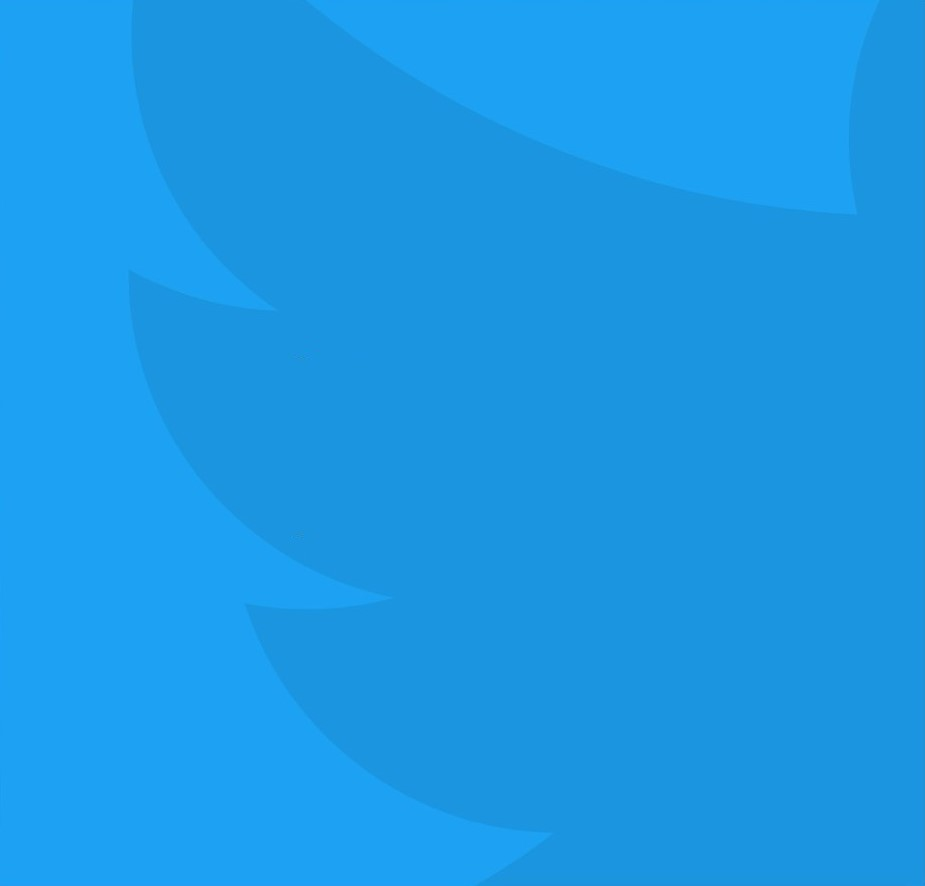
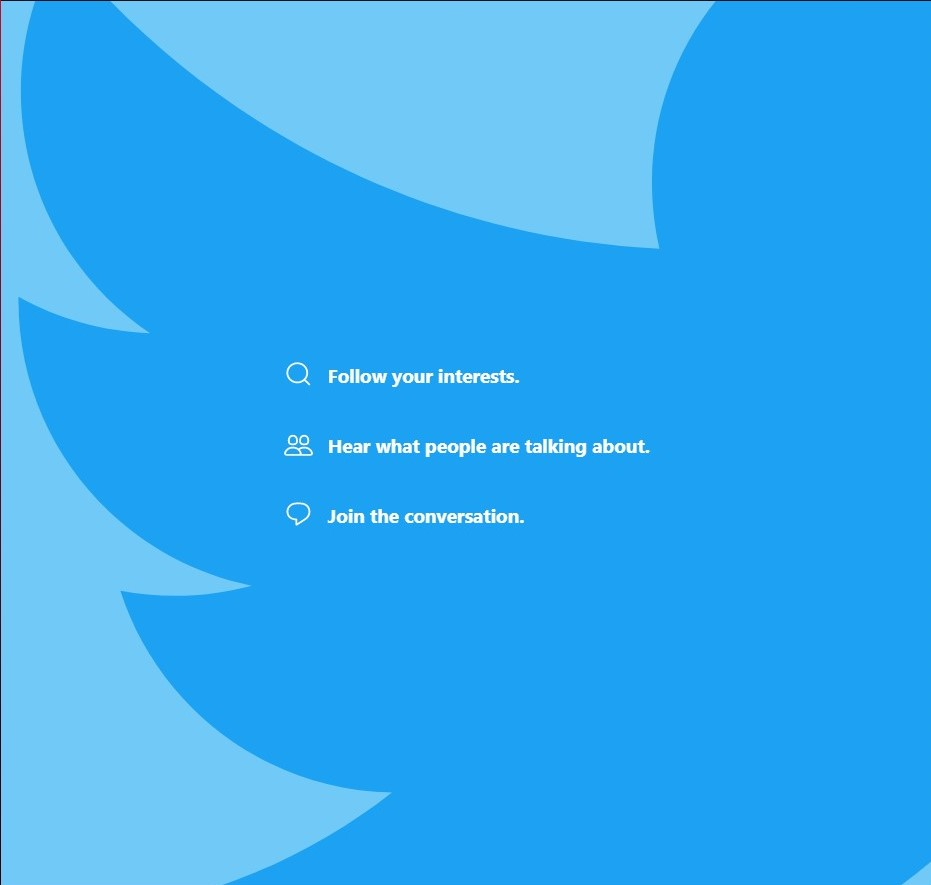
left img

diff --git a/FSW-120/Week7/twitter_spa/src/jsPerFunction/Login.js b/FSW-120/Week7/twitter_spa/src/jsPerFunction/Login.js
@@ -8,12 +8,44 @@ class Home extends Component {
       <div id="wrapper">
         <section id="left">
           <div className="left_center_div">
-            <svg></svg>
-            <h2>Follow your interests.</h2>
-            <svg></svg>
-            <h2>Hear what people are talking about.</h2>
-            <svg></svg>
-            <h2>Join the conversation.</h2>
+            <p>
+              {" "}
+              <svg
+                id="looking_glass"
+                viewBox="0 0 24 24"
+                class="r-jwli3a r-4qtqp9 r-yyyyoo r-1q142lx r-1blvdjr r-1xvli5t r-dnmrzs r-bnwqim r-1plcrui r-lrvibr"
+              >
+                <g>
+                  <path d="M21.53 20.47l-3.66-3.66C19.195 15.24 20 13.214 20 11c0-4.97-4.03-9-9-9s-9 4.03-9 9 4.03 9 9 9c2.215 0 4.24-.804 5.808-2.13l3.66 3.66c.147.146.34.22.53.22s.385-.073.53-.22c.295-.293.295-.767.002-1.06zM3.5 11c0-4.135 3.365-7.5 7.5-7.5s7.5 3.365 7.5 7.5-3.365 7.5-7.5 7.5-7.5-3.365-7.5-7.5z"></path>
+                </g>
+              </svg>
+              <h2>Follow your interests.</h2>
+            </p>
+            <p>
+              {" "}
+              <svg
+                id="second_svg"
+                viewBox="0 0 24 24"
+                class="r-jwli3a r-4qtqp9 r-yyyyoo r-1q142lx r-1blvdjr r-1xvli5t r-dnmrzs r-bnwqim r-1plcrui r-lrvibr"
+              >
+                <g>
+                  <path d="M16.695 13.037c1.185 0 2.51-.132 3.368-1.11.72-.823.952-2.08.715-3.847-.333-2.478-1.86-3.956-4.083-3.956-2.225 0-3.75 1.48-4.084 3.956-.236 1.766-.002 3.023.717 3.846.858.98 2.184 1.11 3.368 1.11zM14.098 8.28c.134-.992.648-2.656 2.598-2.656 1.948 0 2.463 1.664 2.597 2.655.174 1.293.054 2.187-.358 2.657-.367.42-1.036.6-2.238.6s-1.87-.18-2.24-.6c-.412-.47-.533-1.364-.36-2.658zm9.788 11.222c-.763-3.066-3.72-5.208-7.19-5.208-1.765 0-3.392.558-4.67 1.505-1.278-.948-2.905-1.506-4.67-1.506-3.47 0-6.428 2.142-7.19 5.208-.156.625-.025 1.265.356 1.754.37.473.94.744 1.567.744h19.87c.628 0 1.2-.27 1.57-.745.382-.49.512-1.13.356-1.753zm-1.537.83c-.09.11-.22.168-.39.168h-7.413c.078-.32.084-.66 0-.998-.25-1-.75-1.888-1.41-2.65.993-.665 2.223-1.058 3.558-1.058 2.78 0 5.14 1.674 5.735 4.07.044.174.014.344-.08.467zM7.354 20.5H2.09c-.17 0-.3-.057-.388-.168-.096-.123-.126-.294-.083-.47.596-2.395 2.954-4.068 5.735-4.068 2.78 0 5.14 1.674 5.735 4.07.043.174.014.344-.082.467-.088.113-.22.17-.388.17H7.355zm.001-7.463c1.185 0 2.51-.132 3.367-1.11.72-.823.953-2.08.716-3.847-.333-2.478-1.86-3.956-4.083-3.956-2.225 0-3.75 1.48-4.084 3.956-.236 1.766-.002 3.023.717 3.846.858.98 2.184 1.11 3.368 1.11zM4.758 8.28c.134-.992.648-2.656 2.598-2.656 1.948 0 2.463 1.664 2.597 2.655.174 1.293.053 2.187-.358 2.658-.368.42-1.037.6-2.238.6-1.202 0-1.87-.18-2.24-.6-.412-.47-.533-1.365-.36-2.66z"></path>
+                </g>
+              </svg>
+              <h2>Hear what people are talking about.</h2>
+            </p>
+            <p>
+              {" "}
+              <svg
+                viewBox="0 0 24 24"
+                class="r-jwli3a r-4qtqp9 r-yyyyoo r-1q142lx r-1blvdjr r-1xvli5t r-dnmrzs r-bnwqim r-1plcrui r-lrvibr"
+              >
+                <g>
+                  <path d="M14.046 2.242l-4.148-.01h-.002c-4.374 0-7.8 3.427-7.8 7.802 0 4.098 3.186 7.206 7.465 7.37v3.828c0 .108.044.286.12.403.142.225.384.347.632.347.138 0 .277-.038.402-.118.264-.168 6.473-4.14 8.088-5.506 1.902-1.61 3.04-3.97 3.043-6.312v-.017c-.006-4.367-3.43-7.787-7.8-7.788zm3.787 12.972c-1.134.96-4.862 3.405-6.772 4.643V16.67c0-.414-.335-.75-.75-.75h-.396c-3.66 0-6.318-2.476-6.318-5.886 0-3.534 2.768-6.302 6.3-6.302l4.147.01h.002c3.532 0 6.3 2.766 6.302 6.296-.003 1.91-.942 3.844-2.514 5.176z"></path>
+                </g>
+              </svg>
+              <h2>Join the conversation.</h2>
+            </p>
           </div>
         </section>
         <section id="right">
@@ -26,7 +58,15 @@ class Home extends Component {
             </form>
           </div>
           <div className="right_center_div">
-            <svg></svg>
+            <svg
+              id="twitter_icon"
+              viewBox="0 0 24 24"
+              class="r-k200y r-13gxpu9 r-4qtqp9 r-yyyyoo r-np7d94 r-dnmrzs r-bnwqim r-1plcrui r-lrvibr"
+            >
+              <g>
+                <path d="M23.643 4.937c-.835.37-1.732.62-2.675.733.962-.576 1.7-1.49 2.048-2.578-.9.534-1.897.922-2.958 1.13-.85-.904-2.06-1.47-3.4-1.47-2.572 0-4.658 2.086-4.658 4.66 0 .364.042.718.12 1.06-3.873-.195-7.304-2.05-9.602-4.868-.4.69-.63 1.49-.63 2.342 0 1.616.823 3.043 2.072 3.878-.764-.025-1.482-.234-2.11-.583v.06c0 2.257 1.605 4.14 3.737 4.568-.392.106-.803.162-1.227.162-.3 0-.593-.028-.877-.082.593 1.85 2.313 3.198 4.352 3.234-1.595 1.25-3.604 1.995-5.786 1.995-.376 0-.747-.022-1.112-.065 2.062 1.323 4.51 2.093 7.14 2.093 8.57 0 13.255-7.098 13.255-13.254 0-.2-.005-.402-.014-.602.91-.658 1.7-1.477 2.323-2.41z"></path>
+              </g>
+            </svg>
             <h1>See what's happening in the world right now</h1>
             <h3>Join Twitter today.</h3>
             <button>Sign Up</button>

diff --git a/FSW-120/Week7/twitter_spa/src/App.css b/FSW-120/Week7/twitter_spa/src/App.css
@@ -7,15 +7,69 @@
   grid-template-rows: 95% 5%;
 }
 #left {
-  background-image: url();
+  background-image: url(https://raw.githubusercontent.com/GiselleMartinez006/BryanUniversity_WebDev/master/FSW-120/Week7/twitter_spa/src/imgs/LoginPage_leftbird.jpg); /*url(https://i.pinimg.com/564x/ef/b2/73/efb27314e7a44d188f4488816cddaf77.jpg);*/
+  background-size: cover;
+  background-repeat: no-repeat;
 }
 #right {
-  background-image: url();
+  /* background-image: url(https://i.pinimg.com/564x/ef/b2/73/efb27314e7a44d188f4488816cddaf77.jpg); */
+  background: white;
 }
 footer {
   grid-column: span 2;
 }
-
+body {
+  font-family: system-ui, -apple-system, BlinkMacSystemFont, "Segoe UI", Roboto,
+    Ubuntu, "Helvetica Neue", sans-serif;
+  margin: 0;
+}
 main {
+  margin: 0;
   height: 100%;
+}
+#twitter_icon {
+  /* display: block; */
+  fill: rgb(29, 161, 242);
+  height: 41.25px;
+  width: 41.25px;
+}
+svg {
+  color: rgb(255, 255, 255);
+  display: inline-block;
+  fill: rgb(255, 255, 255);
+  flex-shrink: 0;
+  font-size: 23px;
+  height: 28.75px;
+  max-width: 100%;
+  overflow-x: hidden;
+  overflow-y: hidden;
+  pointer-events: auto;
+  position: relative;
+  text-size-adjust: 100%;
+  user-select: none;
+  /* vertical-align: text-bottom; */
+  width: 28.75px;
+  -webkit-box-direction: normal;
+  -webkit-tap-highlight-color: rgba(0, 0, 0, 0);
+}
+
+h2 {
+  display: inline;
+}
+.left_center_div {
+  grid-row: 2;
+  grid-column: 2;
+  align-items: stretch;
+  display: flex;
+  flex-direction: column;
+  margin-bottom: 0px;
+  margin-left: 0px;
+  margin-right: 0px;
+  margin-top: 0px;
+}
+#left {
+  color: white;
+  display: grid;
+  grid-template-columns: 1fr auto 1fr;
+  grid-template-rows: 1fr 1fr 1fr;
 }
